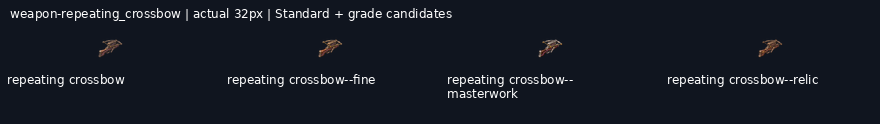
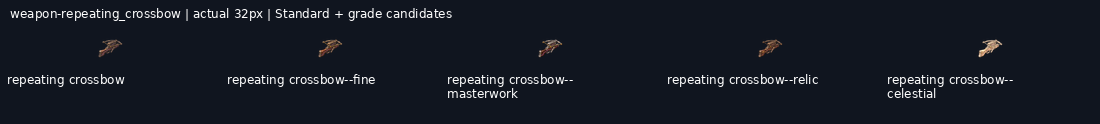
Deliver weapon-repeating_crossbow--celestial review candidate with native provenance and exports

diff --git a/art/_archive/gear/2026-11-21-retry-continuation/HANDOFF.md b/art/_archive/gear/2026-11-21-retry-continuation/HANDOFF.md
@@ -1,13 +1,13 @@
 # Reset continuation progress
 
-Branch: `art/2026-11-20-reset-continuation`. New deliveries: 41/50.
+Branch: `art/2026-11-20-reset-continuation`. New deliveries: 42/50.
 
 Shared coordination: https://github.com/leonpentastorm/Project-Heaven-Cry/issues/3 . Read START-HERE.md before extending this queue.
 
 All new entries remain review-candidate; production_approved:false and implementation_ready:false. Exact-outline review remains pending.
 
-Ready jobs: weapon-purifier_flamer--masterwork, weapon-short_bow--fine, weapon-crossbow--celestial, weapon-repeating_crossbow--celestial.
+Ready jobs: weapon-purifier_flamer--masterwork, weapon-short_bow--fine, weapon-crossbow--celestial.
 
-Pending jobs: weapon-purifier_flamer--masterwork, weapon-purifier_flamer--relic, weapon-purifier_flamer--celestial, weapon-short_bow--fine, weapon-short_bow--masterwork, weapon-short_bow--relic, weapon-short_bow--celestial, weapon-crossbow--celestial, weapon-repeating_crossbow--celestial.
+Pending jobs: weapon-purifier_flamer--masterwork, weapon-purifier_flamer--relic, weapon-purifier_flamer--celestial, weapon-short_bow--fine, weapon-short_bow--masterwork, weapon-short_bow--relic, weapon-short_bow--celestial, weapon-crossbow--celestial.
 
 Quota state: null.

diff --git a/art/briefs/prompts-2026-11-19/PRODUCTION-STATUS.md b/art/briefs/prompts-2026-11-19/PRODUCTION-STATUS.md
@@ -1,12 +1,12 @@
 # Current sole-artist production
 
-**554/871 (63.6%) selected review candidates.** Last delivery: `weapon-repeating_crossbow--relic`. Imports, exports, components, rejected attempts and archived alternatives add0. Artistic/implementation approvals remainfalse.
+**555/871 (63.7%) selected review candidates.** Last delivery: `weapon-repeating_crossbow--celestial`. Imports, exports, components, rejected attempts and archived alternatives add0. Artistic/implementation approvals remainfalse.
 
 | Requested work | Selected | Total |
 | --- | ---: | ---: |
 | icons_tiles | 88 | 88 |
 | new_repaint_standards | 53 | 104 |
-| grades | 399 | 656 |
+| grades | 400 | 656 |
 | uniques | 14 | 23 |
 
 Active run sole-20261121-0109, branch art/2026-11-20-reset-continuation. Shared live ledger: https://github.com/leonpentastorm/Project-Heaven-Cry/issues/3 . Current renewed grade lane: art/_archive/gear/2026-11-21-retry-continuation/START-HERE.md. All earlier512 candidate drawings were integrated before this lane; native bytes, cleaned imports, source metadata and all prior failures preserved.

diff --git a/art/_archive/gear/2026-11-20-reset-continuation/START-HERE.md b/art/_archive/gear/2026-11-20-reset-continuation/START-HERE.md
@@ -1,6 +1,6 @@
 # Current21November continuation
 
-554/871 selected. Active lane art/_archive/gear/2026-11-21-retry-continuation/START-HERE.md, run sole-20261121-0109. User explicitly authorized renewed fictional-art attempts; all priorart/errors preserved. Read liveissue3+allcomments and remote deliveries before everyrender. RunningScript completed with original marks unchanged. All approvalsfalse;0.30 holdsremain. See PRODUCTION-STATUS.md and REMAINING-WORK.json for the latest exact count.
+555/871 selected. Active lane art/_archive/gear/2026-11-21-retry-continuation/START-HERE.md, run sole-20261121-0109. User explicitly authorized renewed fictional-art attempts; all priorart/errors preserved. Read liveissue3+allcomments and remote deliveries before everyrender. RunningScript completed with original marks unchanged. All approvalsfalse;0.30 holdsremain. See PRODUCTION-STATUS.md and REMAINING-WORK.json for the latest exact count.
 
 # Historical20November handoff
 
